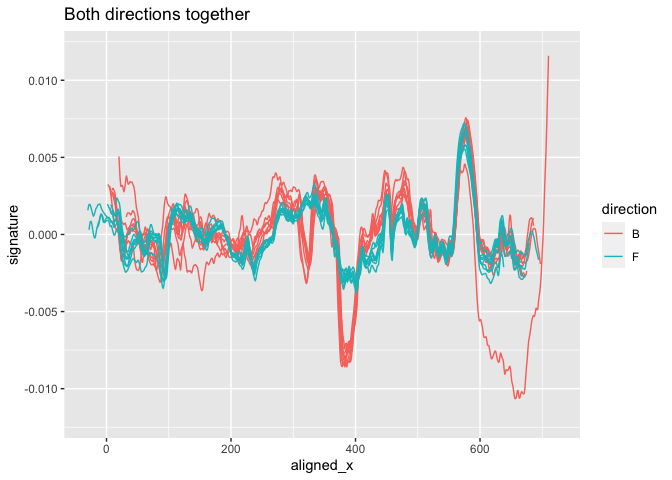
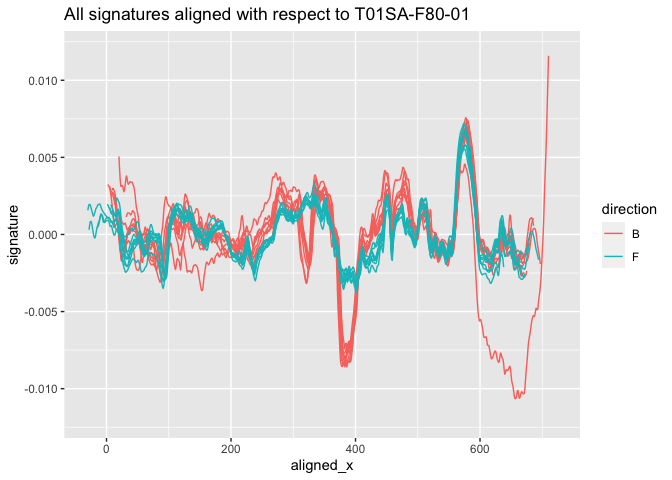
checking assumptions

Changed region(s): [[0.0938, 0.0, 0.6875, 0.0625]]

diff --git a/README.md b/README.md
@@ -24,6 +24,7 @@ remotes::install_github("heike/tmaRks")
 ``` r
 library(tmaRks)
 library(tidyverse, quietly = TRUE)
+library(patchwork)
 ## basic example code
 ```
 
@@ -52,7 +53,7 @@ direction (F,B) and angle, and finally the replicate (1-8):
 
 ``` r
 sample(unique(toolmarks$TID), size=5)
-#> [1] "T09LA-F80-01" "T01SB-B80-05" "T19SB-F80-05" "T16SB-F80-02" "T03LB-F80-01"
+#> [1] "T01SA-B80-02" "T01LA-F70-02" "T11SB-F80-05" "T06SA-F80-06" "T05SA-F80-07"
 ```
 
 For side A of the first small screw driver, we have a total of 8 marks
@@ -142,26 +143,24 @@ t1sab <- t1sa %>% filter(direction == "B") %>%
 ```
 
 ``` r
-t1saf %>% 
+ggf <- t1saf %>% 
   ggplot(aes(x = aligned_x, y = signature, group = TID)) +
   geom_line() +
-  ggtitle("Forward direction")
+  ggtitle("Forward direction (aligned to T01SA-F80-01)")
+ggb <- t1sab %>% 
+  ggplot(aes(x = aligned_x, y = signature, group = TID)) +
+  geom_line() +
+  ggtitle("Backward direction (aligned to T01SA-B80-01)") + 
+  ylim(c(-0.012, 0.012))
+
+ggf/ggb
+#> Warning: Removed 13 rows containing missing values (`geom_line()`).
 ```
 
 <img src="man/figures/README-unnamed-chunk-9-1.png" width="100%" />
 
-``` r
-t1sab %>% 
-  ggplot(aes(x = aligned_x, y = signature, group = TID)) +
-  geom_line() +
-  ggtitle("Backward direction") + 
-  ylim(c(-0.012, 0.012))
-#> Warning: Removed 13 rows containing missing values (`geom_line()`).
-```
-
-<img src="man/figures/README-unnamed-chunk-9-2.png" width="100%" />
-
-Aligning the marks together:
+Aligning the marks together shows that the local minima and maxima align
+better than expected at first glance:
 
 ``` r
 t1sa <- t1sa %>% 
@@ -170,7 +169,7 @@ t1sa <- t1sa %>%
 t1sa %>% 
   ggplot(aes(x = aligned_x, y = signature, group = TID)) +
   geom_line(aes(colour = direction)) +
-  ggtitle("Both directions together") + 
+  ggtitle("All signatures aligned with respect to T01SA-F80-01") + 
   ylim(c(-0.012, 0.012))
 #> Warning: Removed 13 rows containing missing values (`geom_line()`).
 ```
@@ -179,6 +178,44 @@ t1sa %>%
 While there are strong similarities between signatures made by using the
 same side of a tool in different directions, there are also pronounced
 differences visible between the two sets of signatures.
+
+### Hierarchical approach to alignment
+
+It is not always advisable or even possible to align all signatures to
+the same signature.
+
+`sig_align_set` aligns all signatures in `data` to the first signature
+as identified by the levels of the group structure.
+
+``` r
+# Align the first mark of the backwards direction to the first mark in the forward direction
+firsts <- t1sa %>% filter(mark==1) %>% 
+  sig_align_set(signature, group=direction, min.overlap = 400)
+```
+
+Then use this alignment to figure out the shift between the forward
+group and the backward group.
+
+``` r
+aligned_wide <- firsts %>% group_by(TID) %>% arrange(x) %>% mutate(x = 1:n()) %>% ungroup() %>%
+  select(x, TID, aligned_x) %>% 
+  pivot_wider(values_from = aligned_x, names_from = TID)
+lags_wide <- aligned_wide %>% 
+  summarize(across(starts_with("T01"), .f = function(col) unique(col - x))) %>%
+  pivot_longer(starts_with("T01"), names_to="TID", values_to="lag")
+```
+
+``` r
+t1saf %>% 
+  ggplot(aes(x = aligned_x, y = signature, group = TID)) +
+  geom_line(aes(colour = "forward")) +
+  ggtitle("Forward direction (aligned to T01SA-F80-01)") +
+  geom_line(aes(x = aligned_x+lags_wide$lag[2], colour = "backward"), data = t1sab) +
+  ylim(c(-0.012, 0.012))
+#> Warning: Removed 13 rows containing missing values (`geom_line()`).
+```
+
+<img src="man/figures/README-unnamed-chunk-13-1.png" width="100%" />
 
 2.  Align by set
 
